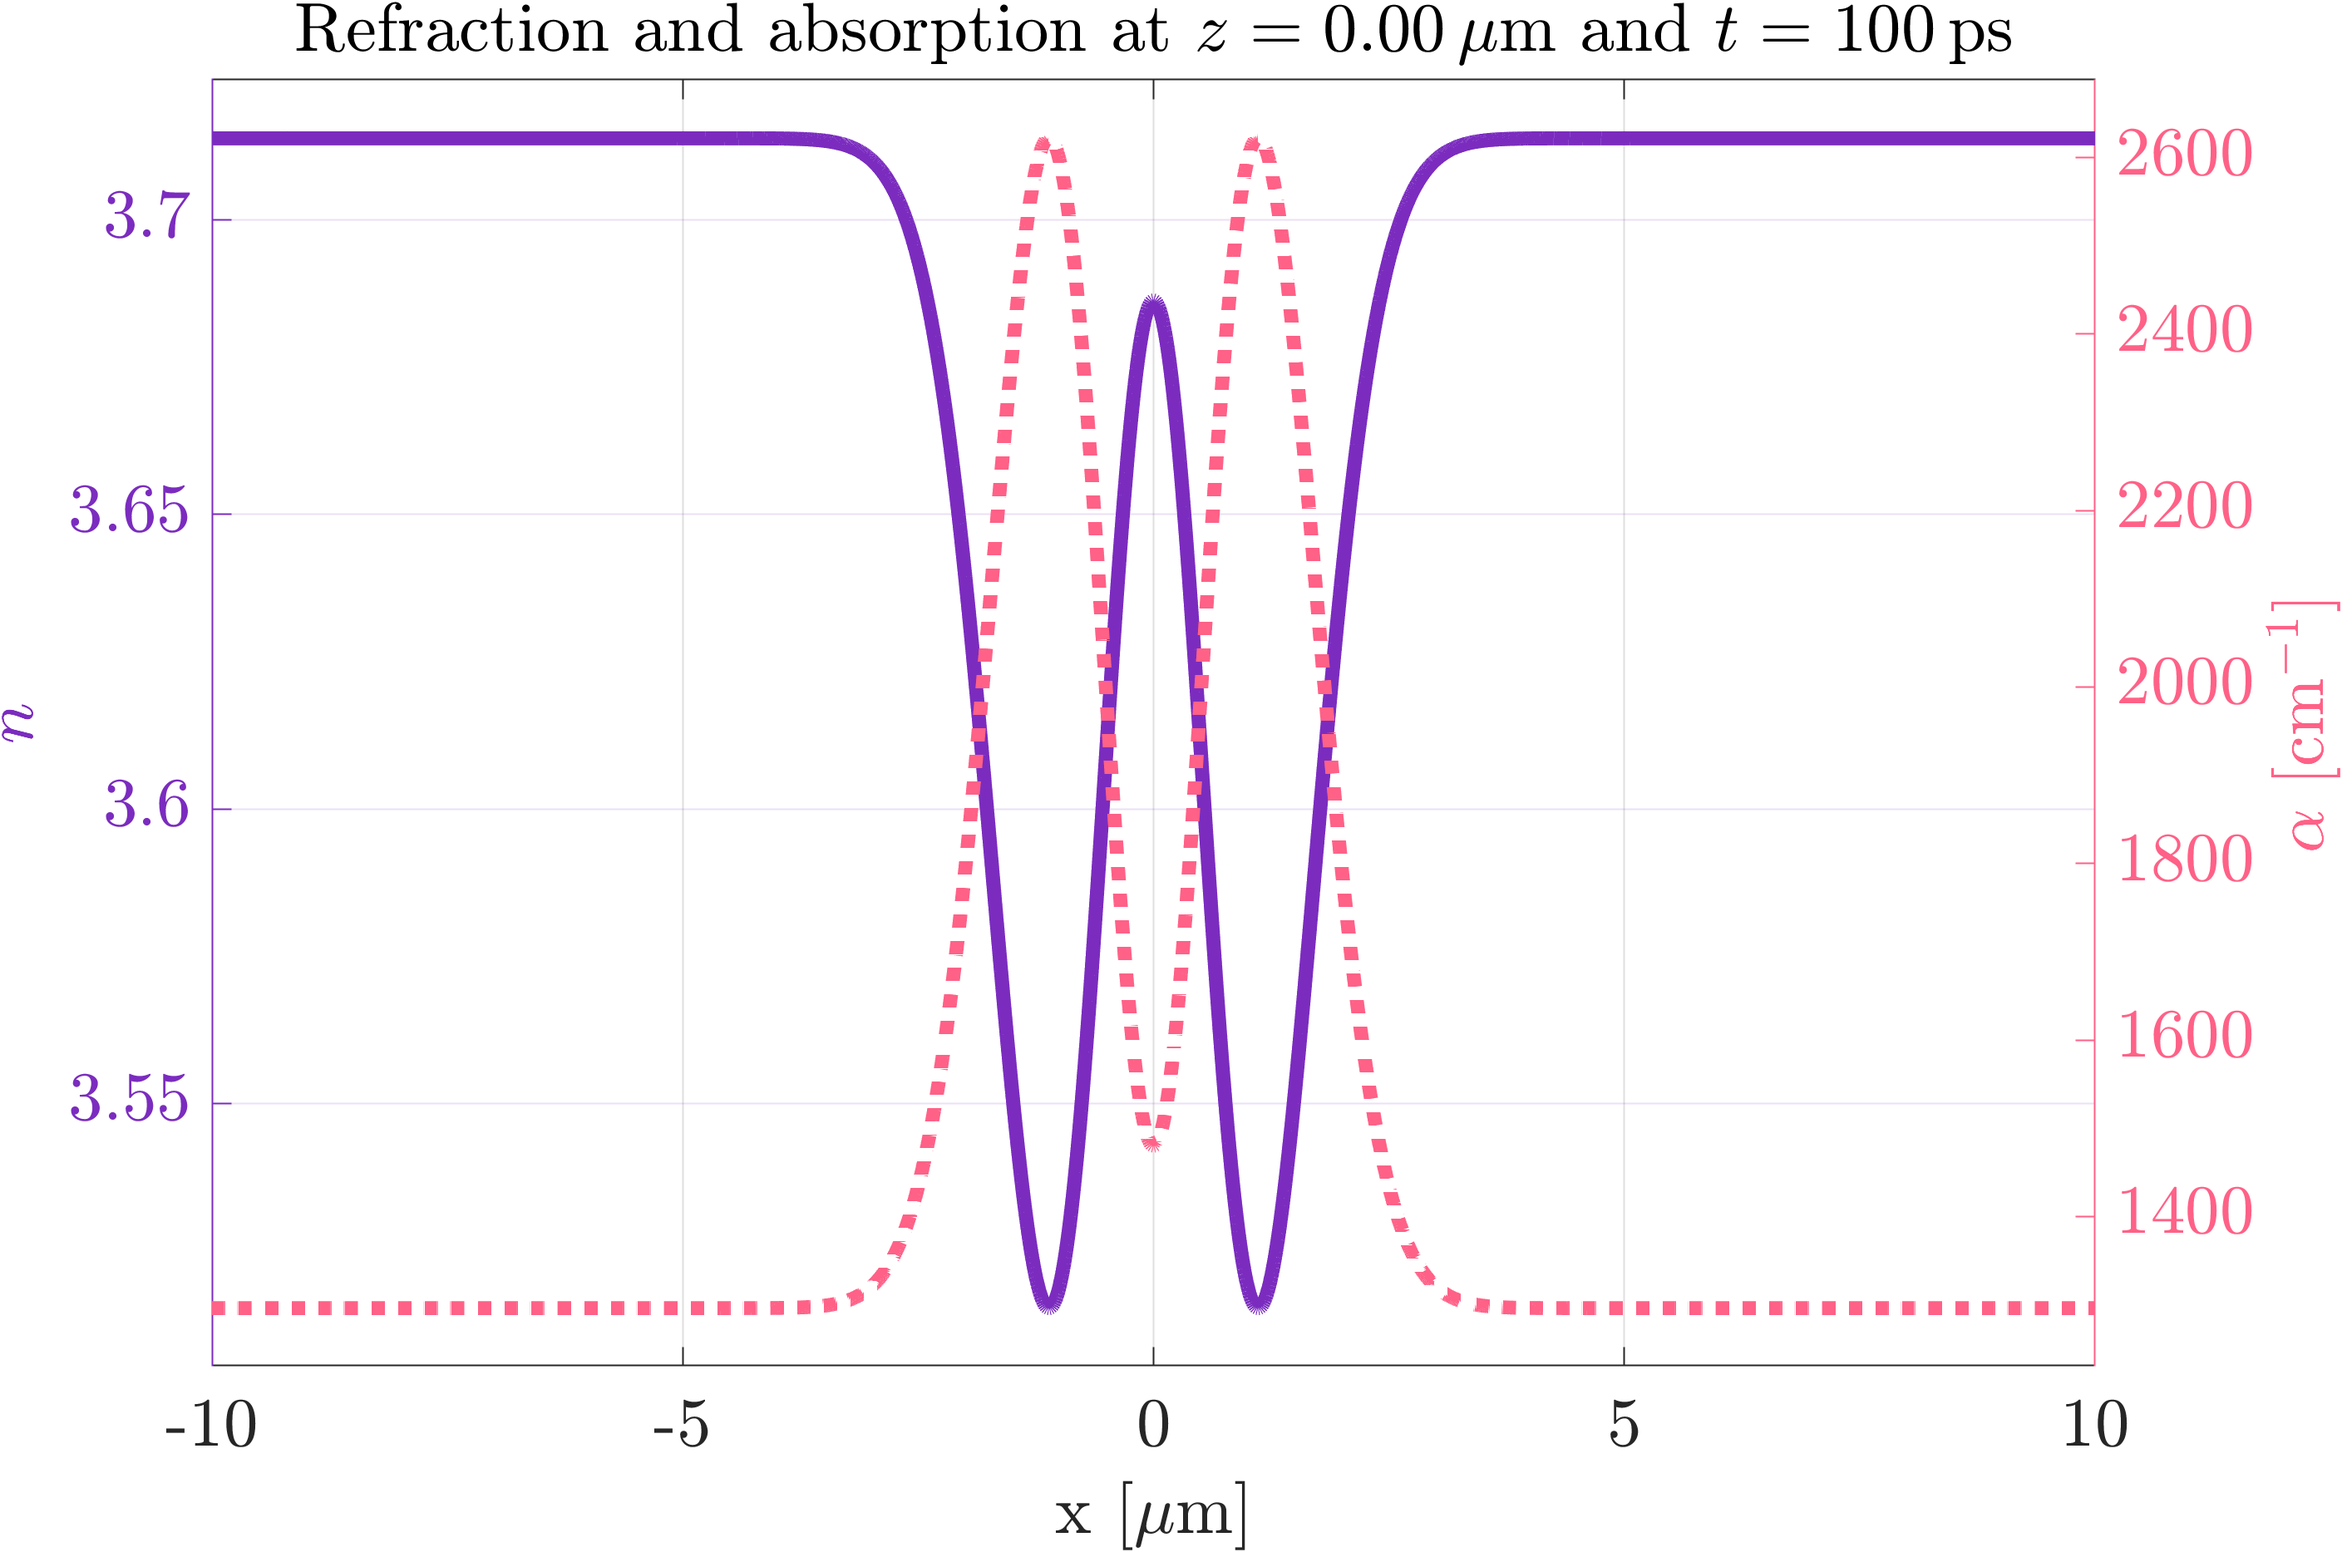
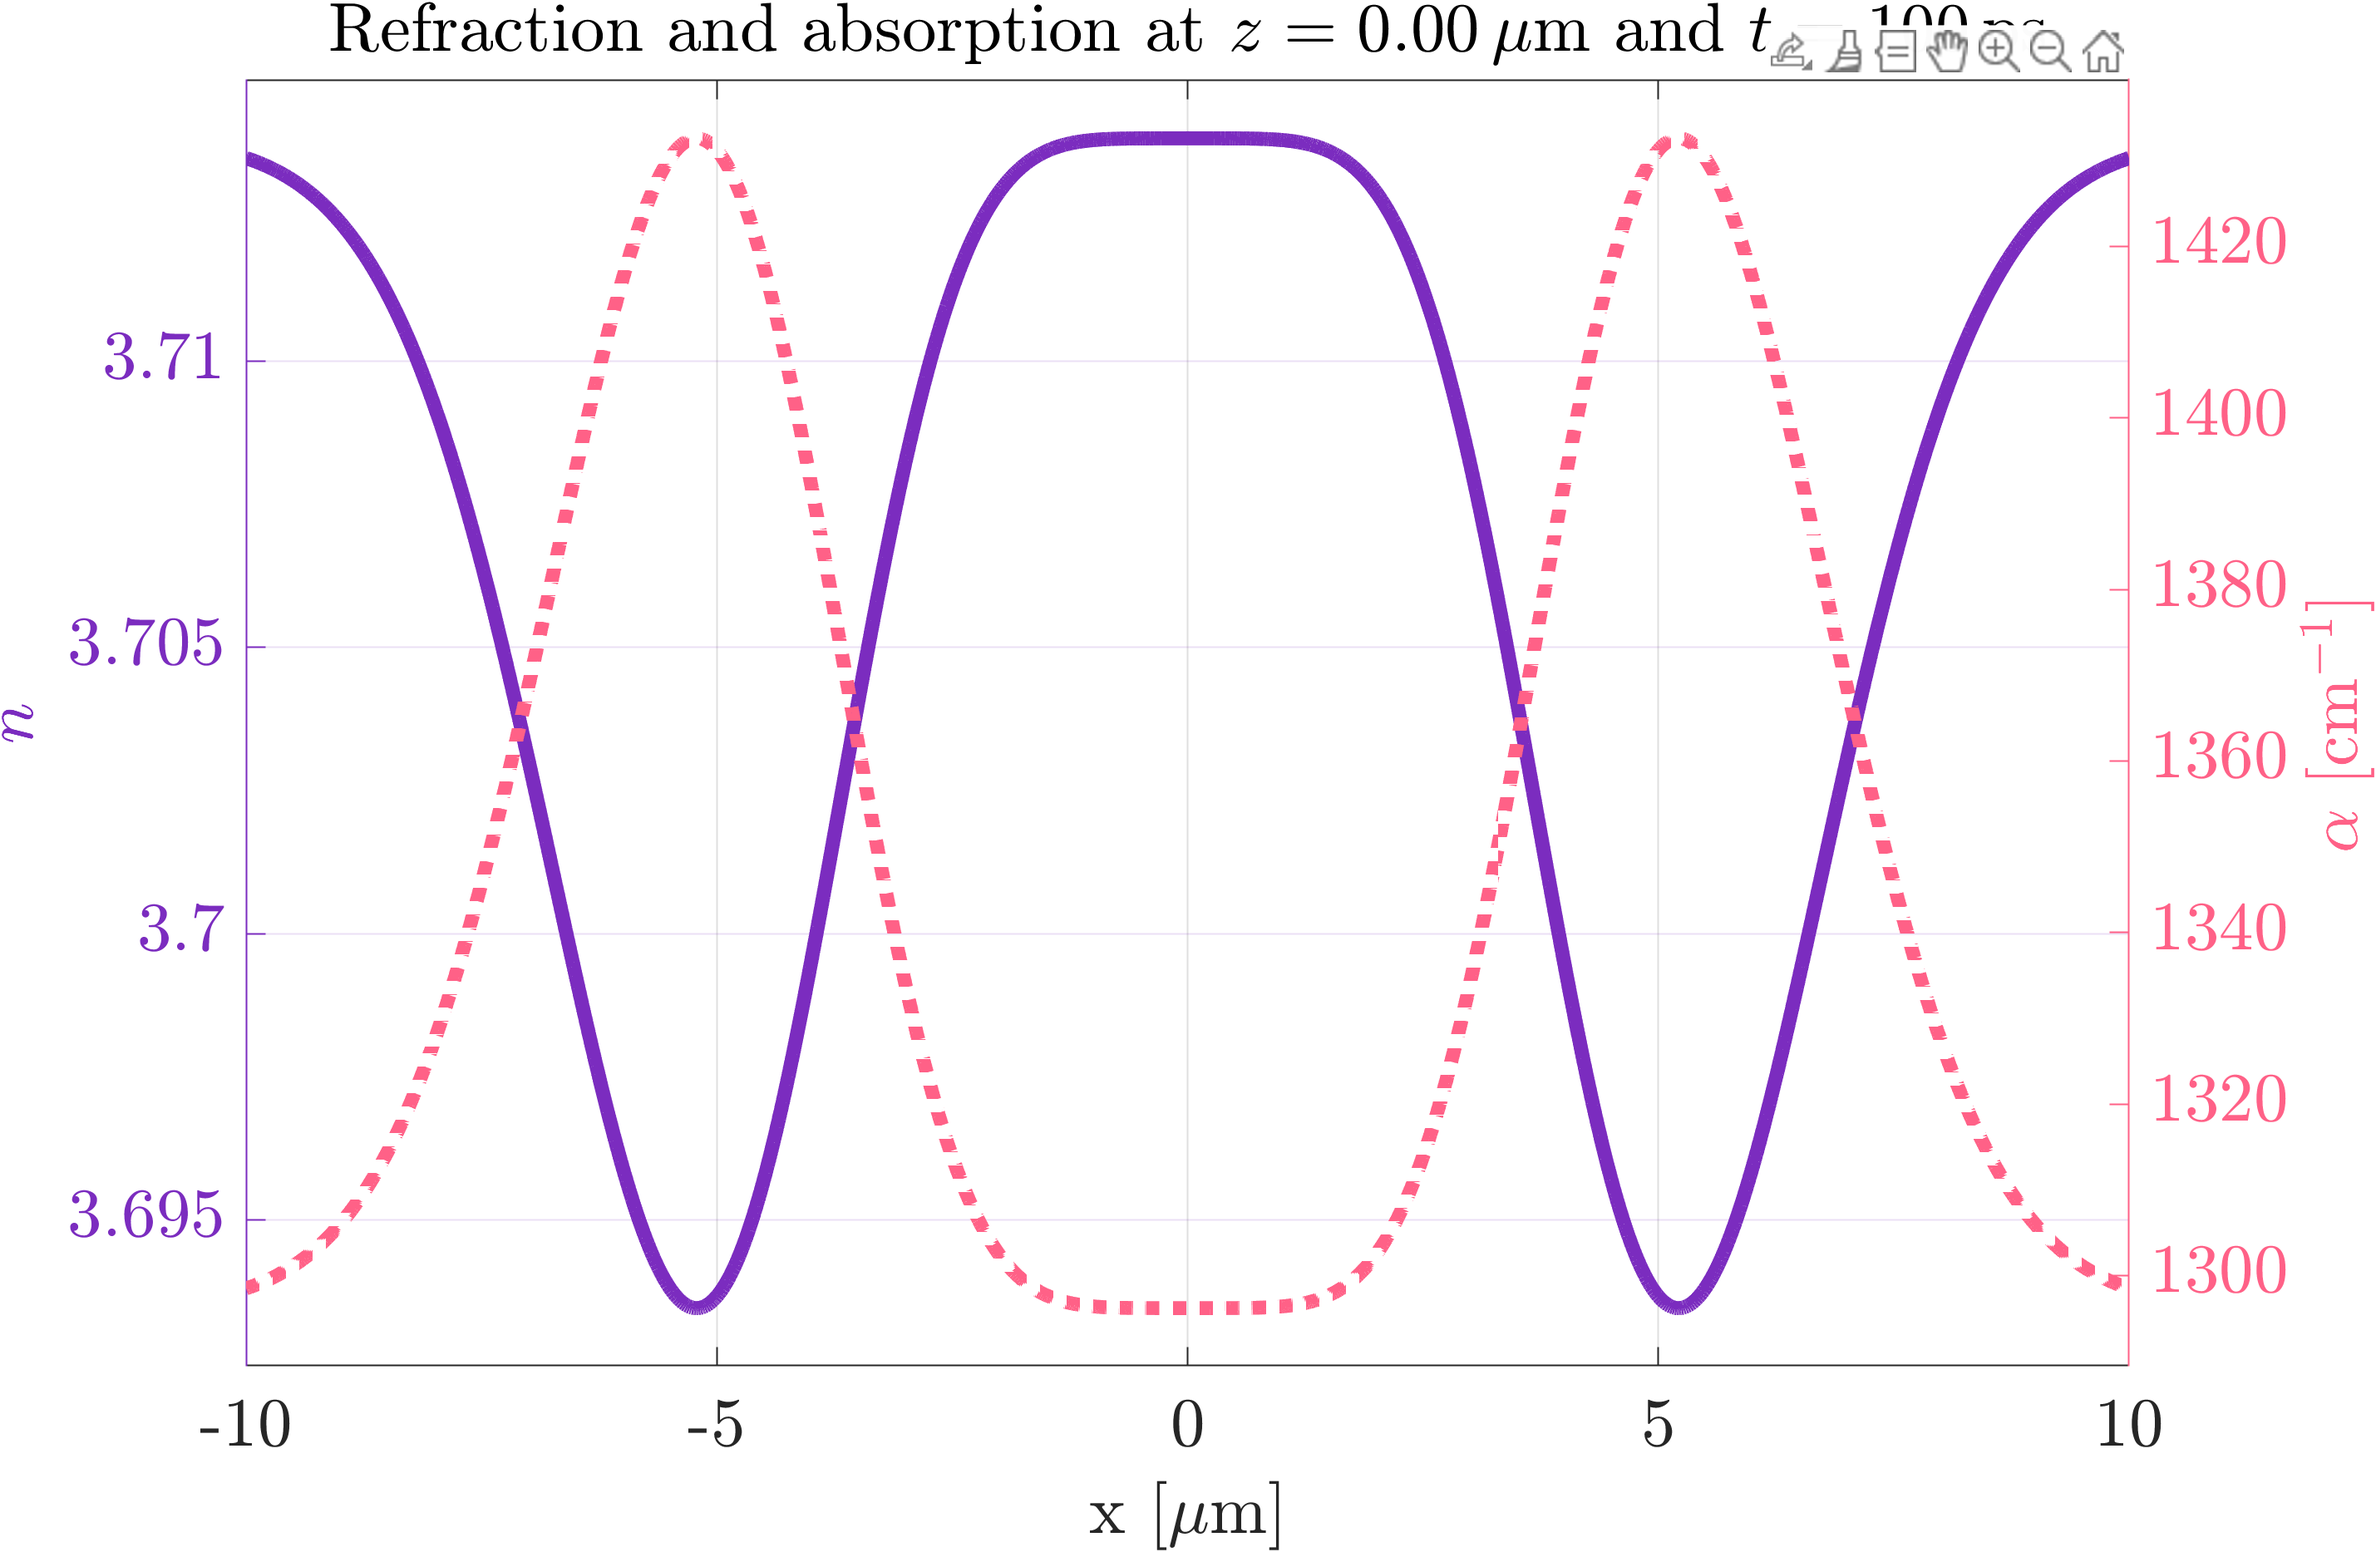
fixed minor amplitude problem

diff --git a/mainProjectSimulation.m b/mainProjectSimulation.m
@@ -114,8 +114,8 @@ probe = laser(sp.wl2, probe_width, probe_E, "Gauss", r, phi, z, probe_w0, probe_
 
 % Undisturbed probe propagating through the sample:
 n = (sp.n + 1i*sp.alpha*probe.lambda/(4*pi))*ones(Nr,Nz);               % Includes BL 
-[~, Iprobe] = propagationBPM_rz(probe.profile(:,1),r,z,probe,n,0,8);    % [W/m^2]
-Iprobe_xz = cylToCart(Iprobe,r,x);
+[~, Iund] = propagationBPM_rz(probe.profile(:,1),r,z,probe,n,0,8);    % [W/m^2]
+Iund_xz = cylToCart(Iund,r,x);
 
 % L = (5:5:135)*1e-9;
 % 
@@ -172,13 +172,13 @@ Iprobe_xz = cylToCart(Iprobe,r,x);
 % set(hfig2, 'Units','centimeters', ...
 %     'Position',[3 3 picturewidth hw_ratio*picturewidth]);
 
-fig4 = PF_plot_xz(Iprobe_xz/max(Iprobe_xz(:)), z, x);
+fig4 = PF_plot_xz(Iund_xz/max(Iund_xz(:)), z, x);
 % [~,fig5] = PF_x(Iprobe_xz(:,1)/max(Iprobe_xz(:)), x,'',"Undisturbed Probe Intensity at the Sample Front","Intensity [au]");
-[~,fig6] = PF_x(Iprobe_xz(:,end)/max(Iprobe_xz(:,end)), x,'',"Undisturbed Probe Intensity at the Sample End","Intensity [au]");
+[~,fig6] = PF_x(Iund_xz(:,end)/max(Iund_xz(:,end)), x,'',"Undisturbed Probe Intensity at the Sample End","Intensity [au]");
 %PF_x_alongz(Iprobe_xz*1e-4,x,z,"Propagated Probe Intensity");
 
 %absorptionDepth(Iprobe(1,:),z,probe.lambda);
-damageThreshold(Iprobe, probe_E, probe_width, probe.lambda, probe_w0, "Undisturbed Probe:");
+damageThreshold(Iund, probe_E, probe_width, probe.lambda, probe_w0, "Undisturbed Probe:");
 
 % Probe Diameter:
 %computeDiameterTheoretically(z, "Gauss",0, sp.wl2, probe_w0, 0, sp.n);
@@ -208,12 +208,12 @@ I_xz = cylToCart(I,r,x);
 damageThreshold(I, probe_E, probe_width, probe.lambda, probe_w0, "Propagated Probe:");
 [fig7,~] = computeDiameter(I, r, z, "Gauss","Propogated Probe Diameter");
 
-fig8 = PF_plot_xz(I_xz/max(Iprobe_xz(:)), z, x); 
+fig8 = PF_plot_xz(I_xz/max(Iund_xz(:)), z, x); 
 [~,fig9] = PF_x(I_xz(:,end)/max(I_xz(:,end)), x,'',"Propagated Probe Intensity at the Sample End","Intensity [au]");
 
 % Checking for losses:
 fprintf("\nUndisturbed Probe:");
-[P_lost, T, P_back] = powerLoss(Iprobe, r);
+[P_lost, T, P_back] = powerLoss(Iund, r);
 fprintf("\nPropagated Probe:");
 [Pp_lost, Tp, Pp_back] = powerLoss(I, r);
 

diff --git a/Helper_Functions/LG0B.m b/Helper_Functions/LG0B.m
@@ -60,8 +60,9 @@ function prf = LG0B(r, phi, z, lambda, w0, z0, E0, n, l)
         end
         
         % Amplitude:
-        amp = E0 * (w0/w) .* (sqrt(2)*r/w).^abs(l) .* L0l .* exp(-(r.^2)/(w^2));
-
+        norm_l = 1 / sqrt(factorial(abs(l)));
+        amp = E0*norm_l*(w0/w).*(sqrt(2)*r/w).^abs(l).*L0l.*exp(-(r.^2)/(w^2));
+        
         % Phase:
         phase = exp(-1i * (k*Z - (abs(l)+1)*gouy + k*(r.^2)/(2*R)));
         vort_ph = exp(1i * l * phi);

diff --git a/Simulation_Functions/propagationBPM_rz.m b/Simulation_Functions/propagationBPM_rz.m
@@ -41,8 +41,11 @@ function [E_rz, I_rz] = propagationBPM_rz(E0_r, r, z, probe, n_complex, a, b)
 
     % Edge-absoring mask:
     mask = exp(-a * (rVec / rVec(end)).^b);
-
-    E_rz = zeros(Nr, Nz);
+    % rPML = 0.8 * rVec(end);
+    % rho = max((rVec - rPML) / (rVec(end) - rPML), 0);
+    % mask = exp(-a * rho.^b / (Nz - 1));
+    
+   E_rz = zeros(Nr, Nz);
     I_rz = zeros(Nr, Nz);
 
     E_rz(:,1) = E0_r(:);
